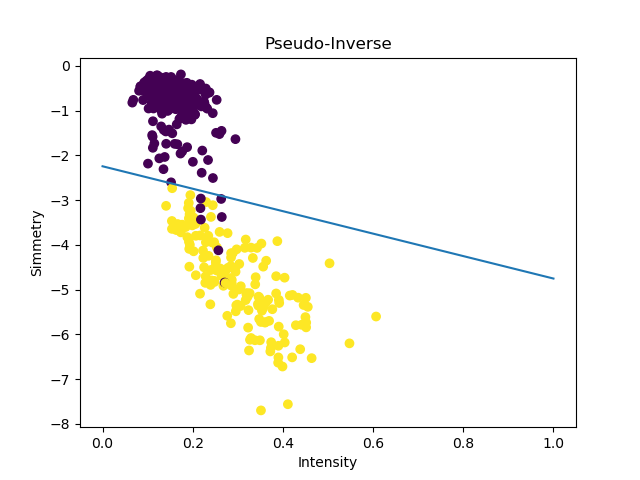
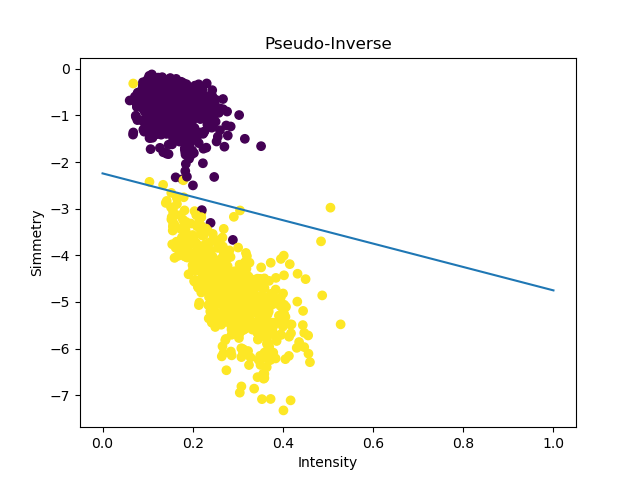
Fix some erros about MSE and Pseudo-Inverse

diff --git a/P1/practica1.py b/P1/practica1.py
@@ -347,7 +347,7 @@ def readData(file_x, file_y):
 def Err(x,y,w):
     
     #(yn - ŷ)²
-    result = np.power(np.swapaxes(x*w,0,1) - y, 2)
+    result = np.power((x.dot(w) - y), 2)
     
     #result/n
     return result.mean()
@@ -418,9 +418,12 @@ def sgd(x,y,eta,size_batch, maxIter, w):
 
 # Pseudoinversa	
 def pseudoinverse(x,y):
-    #compute the pseudo-inverse with this function (np.linalg.pinv) and multiply 
-    #it by the label
-    return np.matmul(np.linalg.pinv(x), y)
+    #compute the pseudo-inverse with this function (np.linalg.inv)
+    #X' = (X^T*X)^-1 * X^T
+    x_ps_inv = np.dot(np.linalg.inv(np.dot(x.T, x)), x.T)
+    
+    #w = X' * y
+    return x_ps_inv.dot(y)
 
 
 # Lectura de los datos de entrenamiento
@@ -447,10 +450,12 @@ print("Psud.-Inv Elapsed time: %0.10f seconds" %elapsed_time)
 
 
 print ('\nBondad del resultado para grad. descendente estocastico:\n')
+print ("w: ", w)
 print ("Ein: ", Err(x,y,w))
 print ("Eout: ", Err(x_test, y_test, w))
 
 print ('\nBondad del resultado para Pseudo-Inverse:\n')
+print ("w: ", w2)
 print ("Ein: ", Err(x,y,w2))
 print ("Eout: ", Err(x_test, y_test, w2))
 
@@ -458,25 +463,25 @@ input("\n--- Pulsar tecla para continuar ---\n")
 
 #grafica SGD
 
-fig21 = plt.figure()
-ax21 = fig21.add_subplot()
-ax21.scatter(x[:,1],x[:,2],c=y)
-ax21.plot([0,1], [-w[0]/w[2], -w[0]/w[2]-w[1]/w[2]])
+# fig21 = plt.figure()
+# ax21 = fig21.add_subplot()
+# ax21.scatter(x[:,1],x[:,2],c=y)
+# ax21.plot([0,1], [-w[0]/w[2], -w[0]/w[2]-w[1]/w[2]])
 
-ax21.set_xlabel('Intensity')
-ax21.set_ylabel('Simmetry')
-ax21.set_title('SGD')
+# ax21.set_xlabel('Intensity')
+# ax21.set_ylabel('Simmetry')
+# ax21.set_title('SGD')
 
-#grafica pseudo-inverse
+# #grafica pseudo-inverse
 
-fig212 = plt.figure()
-ax212 = fig212.add_subplot()
-ax212.scatter(x_test[:,1],x_test[:,2],c=y_test)
-ax212.plot([0,1], [-w2[0]/w2[2], -w2[0]/w2[2]-w2[1]/w2[2]])
+# fig212 = plt.figure()
+# ax212 = fig212.add_subplot()
+# ax212.scatter(x[:,1],x[:,2],c=y)
+# ax212.plot([0,1], [-w2[0]/w2[2], -w2[0]/w2[2]-w2[1]/w2[2]])
 
-ax212.set_xlabel('Intensity')
-ax212.set_ylabel('Simmetry')
-ax212.set_title('Pseudo-Inverse')
+# ax212.set_xlabel('Intensity')
+# ax212.set_ylabel('Simmetry')
+# ax212.set_title('Pseudo-Inverse')
 
 
 #Seguir haciendo el ejercicio...
